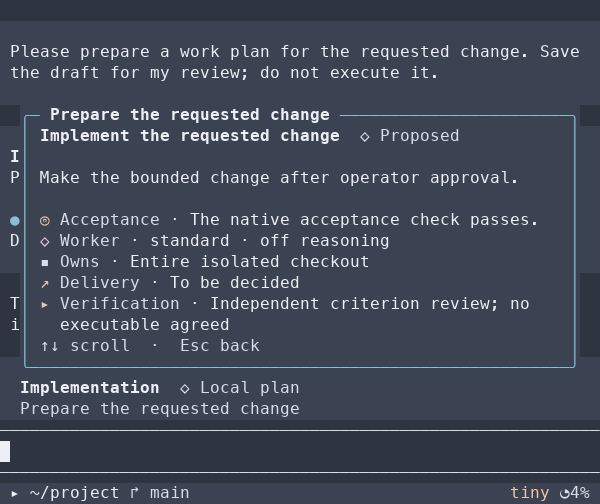
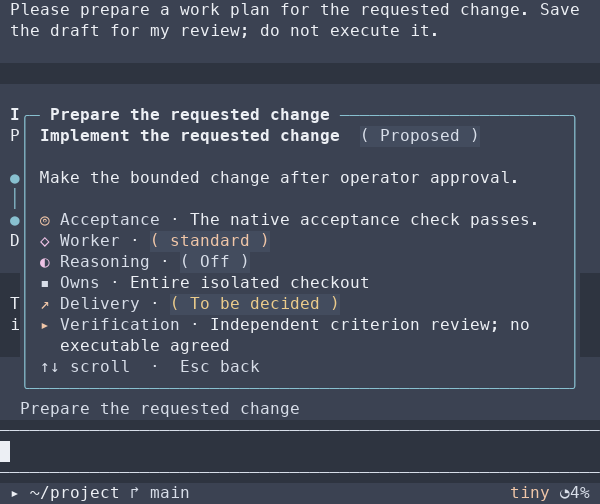
feat(socrates): use status pills in the plan inspector

diff --git a/socrates/plan-inspector.ts b/socrates/plan-inspector.ts
@@ -7,10 +7,12 @@ import {
 import {
   renderStatusCounts,
   renderStatusMark,
+  renderStatusPill,
   selectorText,
   statusPaint,
   type StatusTheme,
 } from "@lanej/pi-components";
+import { ReasoningLevel } from "../config.ts";
 import { planGraph, planGraphColor, renderGraphPrefix } from "../plan-graph.ts";
 import { withTaskAssignment } from "../ui.ts";
 import { implementationColumn, taskMarks } from "./columns.ts";
@@ -22,6 +24,7 @@ import type {
 const fieldMarks = {
   Acceptance: ["◎", "accent"],
   Worker: ["◇", "thinkingHigh"],
+  Reasoning: ["◐", "thinkingHigh"],
   Model: ["◇", "thinkingHigh"],
   Requirements: ["§", "accent"],
   "Depends on": ["↳", "muted"],
@@ -31,6 +34,23 @@ const fieldMarks = {
   Verification: ["▸", "accent"],
   Bead: ["#", "muted"],
 } satisfies Record<ImplementationField["label"], [string, ThemeColor]>;
+
+function renderFieldValue(
+  field: ImplementationField,
+  theme: StatusTheme,
+): string {
+  const { label, value } = field;
+  const text = selectorText(value);
+  if (label === "Worker")
+    return renderStatusPill({ label: text, tone: "accent" }, theme);
+  if (label === "Reasoning")
+    return value === ReasoningLevel.Off
+      ? renderStatusPill({ label: "Off", tone: "muted" }, theme)
+      : `${renderStatusPill({ label: "On", tone: "success" }, theme)} ${text}`;
+  if ((label === "Delivery" && field.pending) || label === "Admission")
+    return renderStatusPill({ label: text, tone: "warning" }, theme);
+  return text;
+}
 
 function graphRows(plan: ImplementationPresentation) {
   return planGraph(plan.rows.map((row) => ({ ...row, key: row.id })));
@@ -84,7 +104,7 @@ export function createPlanInspector(
       let targetLine = 0;
       let footer: string;
       if (detail && task !== undefined) {
-        const status = renderStatusMark(taskMarks[task.state], options.theme);
+        const status = renderStatusPill(taskMarks[task.state], options.theme);
         header = [
           heading,
           ...wrapTextWithAnsi(
@@ -96,10 +116,11 @@ export function createPlanInspector(
         body = [
           ...wrapTextWithAnsi(selectorText(task.description), width),
           "",
-          ...task.fields.flatMap(({ label, value }) => {
+          ...task.fields.flatMap((field) => {
+            const { label } = field;
             const [glyph, tone] = fieldMarks[label];
             return wrapTextWithAnsi(
-              `${theme.fg("muted", label)} · ${selectorText(value)}`,
+              `${theme.fg("muted", label)} · ${renderFieldValue(field, options.theme)}`,
               Math.max(1, width - 2),
             ).map(
               (line, index) =>

diff --git a/socrates/implementation.ts b/socrates/implementation.ts
@@ -1,11 +1,10 @@
 import { readTaskEvidence } from "../tasks/evidence.ts";
 import { workerAssignments, type WorkerAssignment } from "../tasks/workers.ts";
-import type { StudioConfig, TaskAssignment } from "../config.ts";
+import type { ReasoningLevel, StudioConfig, TaskAssignment } from "../config.ts";
 import { TaskStatus, knownTaskStatus } from "../beads.ts";
 import { HandoffPhase, type Discovery } from "../discovery/store.ts";
 import {
   LeadMode,
-  describeWorkerAssignment,
   deliveryOutcome,
   orderedTasks,
   planDigest,
@@ -50,7 +49,7 @@ export enum ImplementationPhase {
   Tracking = "tracking",
 }
 
-export type ImplementationField = {
+type TextField = {
   label:
     | "Acceptance"
     | "Worker"
@@ -59,11 +58,15 @@ export type ImplementationField = {
     | "Depends on"
     | "Owns"
     | "Admission"
-    | "Delivery"
     | "Verification"
     | "Bead";
   value: string;
 };
+
+export type ImplementationField =
+  | TextField
+  | { label: "Reasoning"; value: ReasoningLevel }
+  | { label: "Delivery"; value: string; pending: boolean };
 
 export interface ImplementationRow {
   id: string;
@@ -462,16 +465,14 @@ export function implementationPresentation(
       link?.discovery === true
         ? source.handoff?.workers?.[task.key]
         : undefined;
-    const field = (label: ImplementationField["label"], value?: string) =>
+    const field = (label: TextField["label"], value?: string) =>
       value === undefined || value === "" ? [] : [{ label, value }];
-    const fields = [
+    const fields: ImplementationField[] = [
       ...field("Acceptance", task.acceptance),
-      ...field(
-        "Worker",
-        task.assignment === undefined
-          ? undefined
-          : describeWorkerAssignment(task.assignment),
-      ),
+      ...field("Worker", task.assignment?.capability),
+      ...(task.assignment === undefined
+        ? []
+        : [{ label: "Reasoning", value: task.assignment.reasoning } as const]),
       ...field(
         "Model",
         worker === undefined ? undefined : `${worker.provider}/${worker.model}`,
@@ -485,7 +486,7 @@ export function implementationPresentation(
           : task.owns.join(", "),
       ),
       ...field("Admission", task.hold === true ? "On hold" : undefined),
-      ...field("Delivery", delivery),
+      { label: "Delivery", value: delivery, pending: unassigned },
       ...field(
         "Verification",
         task.check === undefined || task.check.length === 0

diff --git a/vendor/pi-components/status.ts b/vendor/pi-components/status.ts
@@ -221,6 +221,15 @@ export function renderStatusMark(
   )(`${glyph} ${statusText(mark.label)}`.trim());
 }
 
+/** Render a short status label with a visible outline and the theme's selection fill. */
+export function renderStatusPill(
+  status: Pick<StatusMark, "label" | "tone">,
+  theme: StatusTheme,
+): string {
+  const outline = `( ${statusText(status.label)} )`;
+  return theme.selected(statusPaint(theme, status.tone)(outline));
+}
+
 export function renderStatusCounts(
   counts: readonly StatusCount[],
   theme: StatusTheme,

diff --git a/tests/socrates-implementation.test.ts b/tests/socrates-implementation.test.ts
@@ -127,7 +127,7 @@ await test("a frozen specification and proposed breakdown never imply execution"
   assert.match(display.rows[1]?.details ?? "", /Depends on · restore/u);
   assert.match(
     display.rows[0]?.details ?? "",
-    /Worker · advanced · high reasoning/u,
+    /Worker · advanced\nReasoning · high/u,
   );
 });
 

diff --git a/vendor/pi-components/index.ts b/vendor/pi-components/index.ts
@@ -16,6 +16,7 @@ export {
   conditionMark,
   conditionSummary,
   renderStatusMark,
+  renderStatusPill,
   renderStatusCounts,
   statusPaint,
   type Activity,

diff --git a/acceptance/conversation-plan.py b/acceptance/conversation-plan.py
@@ -26,6 +26,12 @@ proposal = {"summary": "Prepare the requested change", "tasks": [{
     "description": "Make the bounded change after operator approval.",
     "acceptance": "The native acceptance check passes.",
     "assignment": {"capability": "standard", "reasoning": "off"},
+}, {
+    "key": "review", "title": "Review the completed change",
+    "description": "Inspect the result against the agreed requirement.",
+    "acceptance": "Record the observed result.",
+    "assignment": {"capability": "advanced", "reasoning": "high"},
+    "blockedBy": ["change"],
 }]}
 requests = []
 errors = []
@@ -133,15 +139,29 @@ def run(output):
             terminal.capture("conversation-plan-inspect")
             terminal.send("\r")
             terminal.contains("The native acceptance check passes.")
-            terminal.contains("Worker · standard · off reasoning")
+            terminal.contains("Worker · ( standard )")
+            terminal.contains("Reasoning · ( Off )")
             terminal.capture("conversation-plan-task")
             terminal.resize(60, 24)
-            terminal.contains("◇ Worker · standard · off reasoning")
+            terminal.contains("◇ Worker · ( standard )")
+            terminal.contains("◐ Reasoning · ( Off )")
+            terminal.contains("( To be decided )")
+            terminal.contains("( Proposed )")
             terminal.centered_inspector("Prepare the requested change", "Esc back")
             terminal.assert_styled_text("◎", fg="accent", lines=[
                 row for row, line in enumerate(terminal.screen.display) if "◎ Acceptance" in line
             ])
+            terminal.assert_styled_text("To be decided", fg="warning", bg="selectedBg")
             terminal.capture("conversation-plan-task")
+            terminal.send("\x1b")
+            terminal.contains("Enter details")
+            terminal.send("j\r")
+            terminal.contains("Worker · ( advanced )")
+            terminal.contains("Reasoning · ( On ) high")
+            terminal.assert_styled_text("On", fg="success", bg="selectedBg", lines=[
+                row for row, line in enumerate(terminal.screen.display) if "Reasoning · ( On )" in line
+            ])
+            terminal.capture("conversation-plan-reasoning-on")
             terminal.send("\x1b")
             terminal.contains("Enter details")
             terminal.send("\x1b")

diff --git a/vendor/pi-components/README.md b/vendor/pi-components/README.md
@@ -1,3 +1,5 @@
 # Vendored Pi components
 
 Runtime source from [lanej/dotfiles at b4163590](https://github.com/lanej/dotfiles/tree/b416359039587ca36d0ec9bc0f7509da0833b933/tools/pi-components). Studio includes the reusable selector, condition status and activity primitives, conditions panel, two-column status dock, and foldable inspector so they remain available outside dotfiles. The [component guide](https://github.com/lanej/dotfiles/blob/b416359039587ca36d0ec9bc0f7509da0833b933/tools/pi-components/README.md) covers the complete API and runnable example. Refresh the exported sources together; the original package retains its own development tooling and interaction tests. Studio's strict profile checks this snapshot alongside its consumers.
+
+The status pill renderer comes from [lanej/dotfiles at e152ddd9](https://github.com/lanej/dotfiles/commit/e152ddd92ab59fc31246b2fc8e99151947018e0d) and uses Studio’s existing review-tone fallback.
